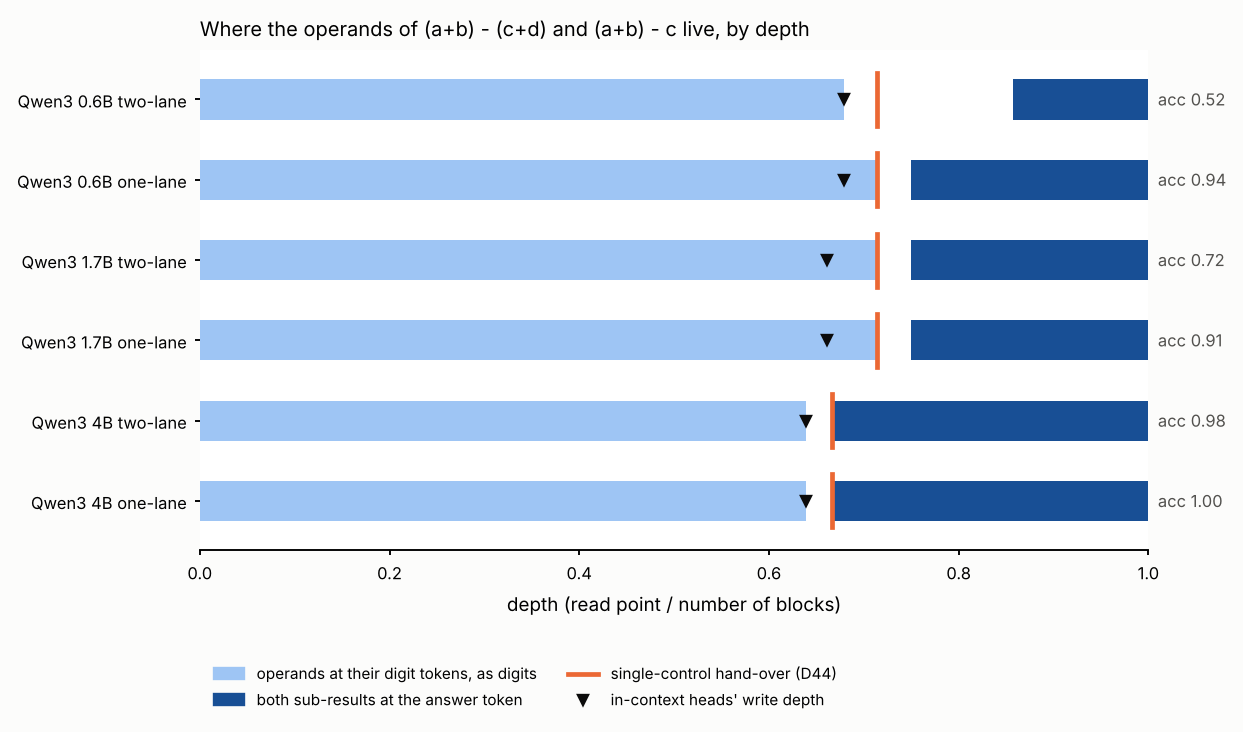
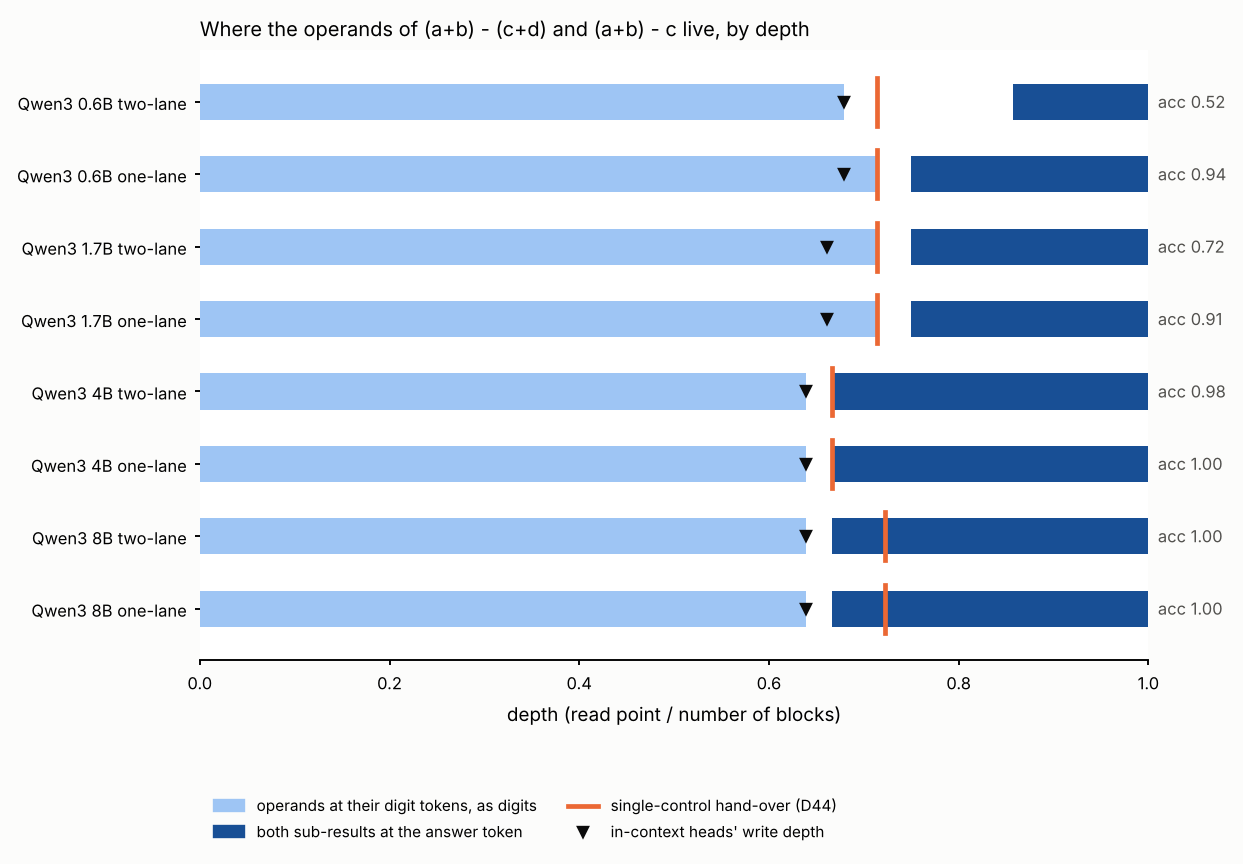
D49 job 1: the 8B variable map and probe recorded (G = 24); artifact archived
The four models' summaries and depth figures regenerated with the 8B rows (the earlier rows are
unchanged); the 8B probe figures re-rendered with the gather marked; the 8B D44 marks added.

Claude-Session: https://claude.ai/code/session_01N4g8yTdSDrK4B3gLRNuNBg

diff --git a/scripts/varmap_summary.py b/scripts/varmap_summary.py
@@ -26,7 +26,7 @@ from directions.varmap import Expr, bootstrap_rate, prediction, reading
 N_BOOT, ALPHA, SEED = 1000, 0.05, 20260916
 # the single-control hand-over (D43 vector, median read point) and the universal heads' median write depth, from the
 # D44 entry of STATUS.md; the figure marks them beside the gather
-HANDOVER = {"qwen3_0.6b": (20, 19.0), "qwen3_1.7b": (20, 18.5), "qwen3_4b": (24, 23.0)}
+HANDOVER = {"qwen3_0.6b": (20, 19.0), "qwen3_1.7b": (20, 18.5), "qwen3_4b": (24, 23.0), "qwen3_8b": (26, 23.0)}
 
 
 def parse_expr(text: str) -> Expr:

diff --git a/STATUS.md b/STATUS.md
@@ -4815,6 +4815,44 @@ cells that come near the criteria
   two runs were not stored: their `das_bases.npz` holds the test predictions. Later runs write the predictions to
   `das_predictions.npz` and the kept basis of every fit to `das_bases.npz`.
 
+### D49: the variable-map line on Qwen3-8B Base (seed 20260916)
+
+D45 and D46 unchanged on the 8B (job 1); D47 and DAS with the design D49 fixed before any 8B data (job 2).
+
+```
+# job 1: workflow run 38738001665 (request d49_varmap_varprobe_qwen3_8b_seed20260916), commit c8d2f26, RTX 4090
+# (ADA_24), EUR-NO-1; stages 11 s (the OLMo 3 7B cache deleted to make room), 63 and 5.8 min (about 1.35 USD);
+# determinism (a repeated swap batch, a repeated capture batch and probe) and identity swaps identical
+uv run python scripts/stages.py \
+  'uv run python scripts/volume_cleanup.py --delete-model allenai/Olmo-3-1025-7B --delete-incomplete --yes' \
+  'uv run directions varmap --config configs/varmap_qwen3_8b.yaml --run-id varmap_qwen3_8b_seed20260916' \
+  'uv run directions varprobe --config configs/varprobe_qwen3_8b.yaml --run-id varprobe_qwen3_8b_seed20260916'
+# on the download, the four models' runs side by side (symlinks of results/remote/run-38502381471/varmap_* and
+# run-38738001665/varmap_* in one directory; the same for varprobe with run-38587101804):
+uv run python scripts/varmap_summary.py <varmap dirs> --out docs/varmap/summary.json --figure docs/varmap/depth.png
+uv run python scripts/varprobe_summary.py <varprobe dirs> --out docs/varprobe/summary.json --figure docs/varprobe/depth.png
+```
+
+Figures: `docs/varmap/qwen3_8b_<task>.png`, `docs/varprobe/qwen3_8b_<task>.png` (re-rendered from the stored
+results with the gather marked), and the 8B rows of both `depth.png`.
+
+| 8B task | few-shot accuracy (D45 / D46) | gather G (fraction) | last digit read point | both-swap source answer at G | bracket swaps at the answer token before G | S1 given Y: G−1 → G → peak (read point) → L | Y probe 0.9 of final at; lens reads Y from |
+|---|---|---|---|---|---|---|---|
+| two-lane | 1.000 / 0.990 (2028) | 24 (0.67) | 23 | 0.92 | S2 0.30 at read points 22–23 (lower bound 0.19), S1 0.00 | 0.45 → 0.90 → 0.98 (27) → 0.92 | 26; 26 |
+| one-lane | 1.000 / 1.000 (574) | 24 (0.67) | 23 | 0.95 | S2 (= c) 0.55–0.59 at 22–23 (0.44–0.48), S1 0.00 | 0.25 → 0.64 → 0.95 (27) → 0.88 | 26; 25 |
+
+- **The 8B gathers where the 4B does.** Both have 36 blocks, and on both the operands are at their digit tokens to
+  read point 23 and both sub-results at the answer token from 24 on. The 8B is the most accurate model (two-lane
+  0.99 on 2048 expressions; 4B 0.97). The D44 single-control hand-over (D43 vector) is two read points later than
+  the gather on the 8B (26), at it on the 4B (24); the heads write at 23 on both.
+- **The subtrahend's digits start arriving two blocks before the gather.** At read points 22–23 the S2 swap moves
+  the answer token's answer in 0.30 of the two-lane bases and the c swap in 0.55–0.59 of the one-lane bases, short
+  of D45's "present" (lower bound ≥ 0.5) but not absent; the first bracket moves nothing there. On the 4B the same
+  swaps give 0.07. (On 1.7B and 0.6B it was the first bracket's lane that opened a block early, D47.)
+- **The sums become readable at the gather, the answer two blocks later**, as on the 4B: S1 given Y 0.45 → 0.90
+  across block 24, Y 0.32 → 0.77 → 0.98 at read points 24 → 25 → 26. The decomposition is carried to L (S1 given Y
+  0.92), so neither D46 rule 1 nor rule 2 holds.
+
 ## Not yet run / known limitations
 
 - The variable map (D45) has run once per model (Qwen3 0.6B, 1.7B, 4B Base; seed 20260916) on two expression tasks
